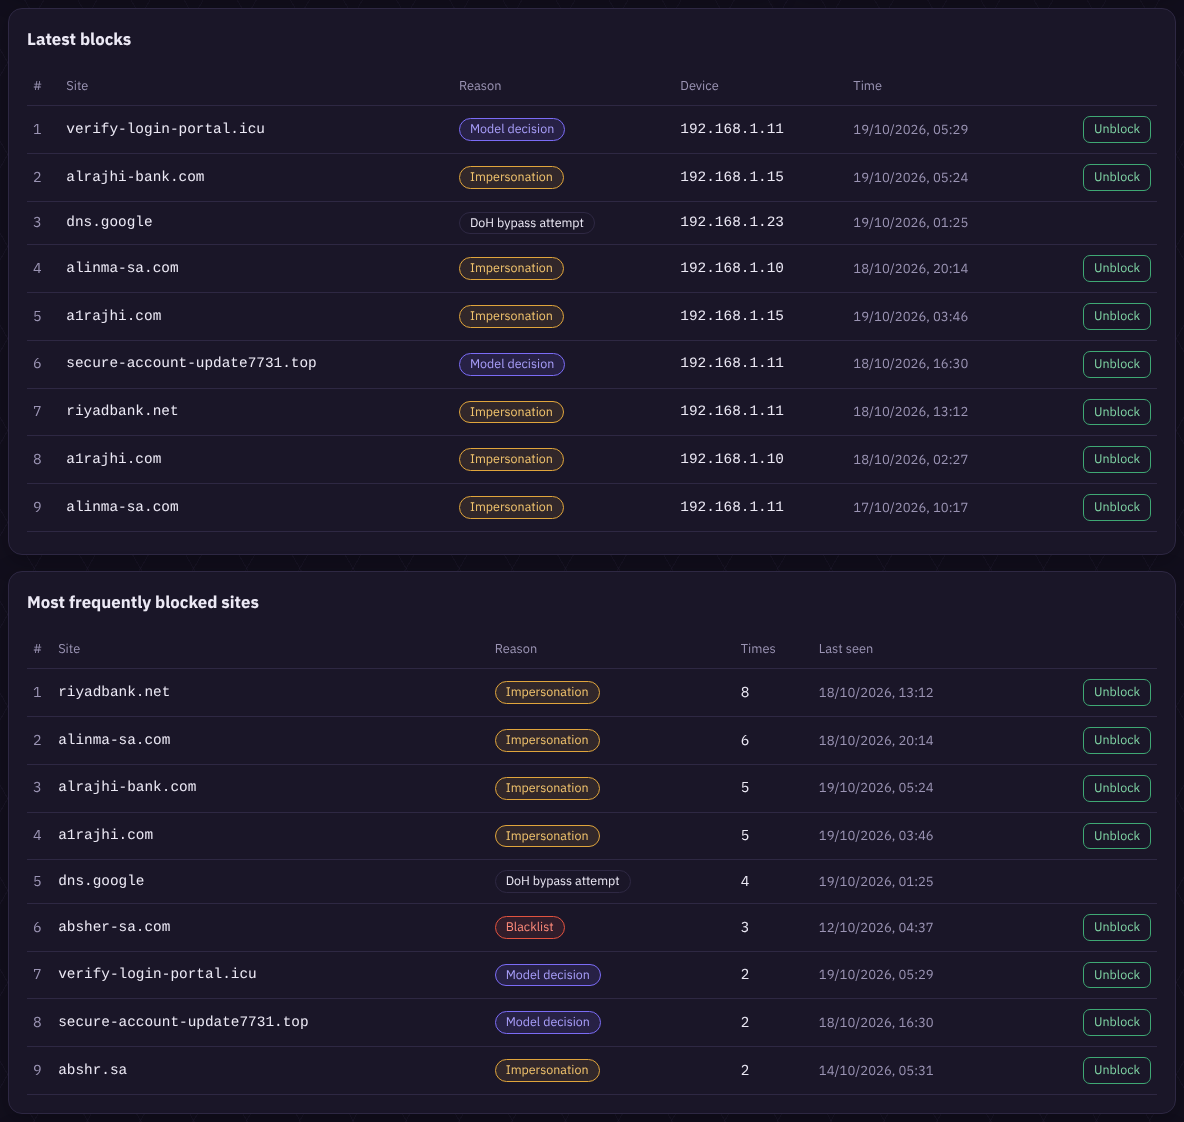
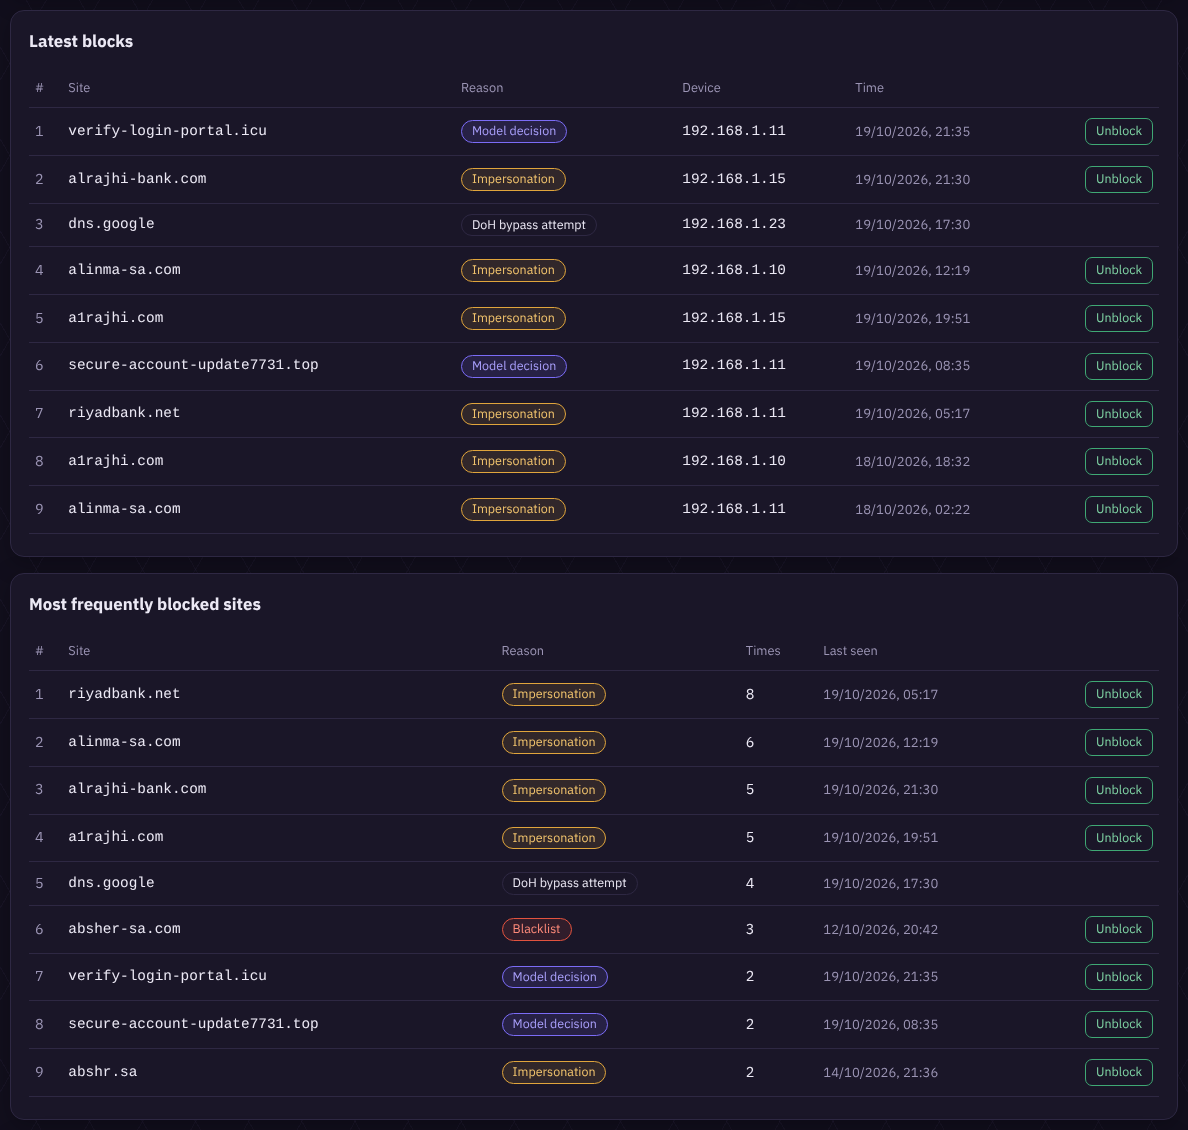
docs: add a heading and a screenshot for each part of the dashboard

diff --git a/README.md b/README.md
@@ -100,22 +100,45 @@ Either way the fake site never loads (see [docs/https_block_page.md](docs/https_
 ## The dashboard
 
 One owner account, created on the HISN computer itself, signs in from any device at home. The
-dashboard refreshes every 15 seconds and covers the last 30 days:
+dashboard refreshes every 15 seconds and covers the last 30 days. Here is each part.
 
-- **Alert banner** listing what was blocked since the owner last looked.
-- **Tiles:** threats blocked, blocked and allowed today, DoH bypass attempts stopped, devices.
-- **Charts:** requests per day, and blocks by reason.
-- **Lists:** latest blocks, sites blocked more than once, and each device's activity.
-- **Unblock** a site in one click (it takes effect within 2 seconds, no restart), and **Block again**.
-- Arabic or English, dark or light, laptop or phone.
+### Alert banner
 
-![Latest blocks and the sites blocked most often, each with its reason and an Unblock button](docs/images/dashboard-lists.png)
+Lists what was blocked since the owner last looked, until the owner presses OK.
 
-![A site the owner unblocked, with Block again, and the activity of each device](docs/images/dashboard-allowed-devices.png)
+![The alert banner with the newest blocked attempts](docs/images/dashboard-alert.png)
 
-| Light mode | Phone | Sign-in |
-| --- | --- | --- |
-| ![Dashboard in light mode](docs/images/dashboard-light-en.png) | ![Dashboard on a phone](docs/images/dashboard-phone.png) | ![Dashboard sign-in](docs/images/login.png) |
+### Tiles
+
+Threats blocked in the last 30 days, blocked and allowed today, DoH bypass attempts stopped, and devices on the network.
+
+![The five summary tiles](docs/images/dashboard-tiles.png)
+
+### Charts
+
+Requests per day (allowed and blocked), and blocks by reason.
+
+![Daily requests and the block reasons breakdown](docs/images/dashboard-charts.png)
+
+### Lists
+
+Latest blocks and the sites blocked more than once, each with its reason and an Unblock button, then the activity of each device.
+
+![Latest blocks and the sites blocked most often](docs/images/dashboard-lists.png)
+
+![The activity of each device on the network](docs/images/dashboard-devices.png)
+
+### Unblock and Block again
+
+Unblock a site in one click (it takes effect within 2 seconds, no restart). It then appears here, with a Block again button.
+
+![A site the owner unblocked, with Block again](docs/images/dashboard-unblock.png)
+
+### Arabic or English, dark or light, laptop or phone
+
+| Arabic | Light mode | Phone | Sign-in |
+| --- | --- | --- | --- |
+| ![Dashboard in Arabic](docs/images/dashboard-ar.png) | ![Dashboard in light mode](docs/images/dashboard-light-en.png) | ![Dashboard on a phone](docs/images/dashboard-phone.png) | ![Dashboard sign-in](docs/images/login.png) |
 
 ## Results
 
